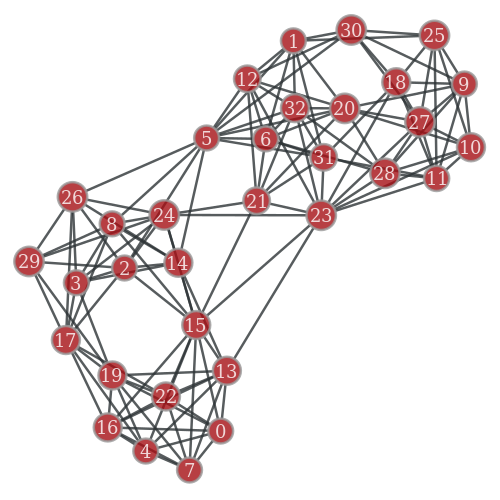
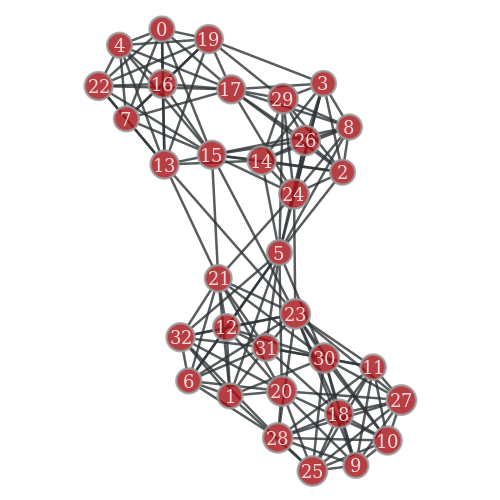
Added graphs for thickness 2 on mystery graph 1

diff --git a/__main__.py b/__main__.py
@@ -92,17 +92,33 @@ def mps_naive_best(graph, count, filter=None):
     return best_sg
 
 def thickness(graph):
-    t = 1
+    planar_graphs = []
     remaining = graph.copy()
     while not is_planar(remaining):
-        t += 1
-        mps = mps_naive_best(remaining, 1)
+        mps = mps_naive_best(remaining, 400)
+        edges = mps.get_edges()
+        add_graph = Graph(directed=False)
+        add_graph.add_edge_list(edges)
+        planar_graphs.append(add_graph)
         remaining.set_edge_filter(mps.get_edge_filter()[0], inverted=True)
         remaining.purge_edges()
         edges = remaining.get_edges()
         remaining = Graph(directed=False)
         remaining.add_edge_list(edges)
-    return t
+    planar_graphs.append(remaining)
+    return planar_graphs
+
+def save_graphs(graphs, filename_prefix):
+    i = 1
+    for g in graphs:
+        g.save(filename_prefix+str(i)+".graphml", "graphml")
+        i += 1
+
+def max_degree(graph):
+    d = []
+    for v in graph.vertices():
+        d.append(v.out_degree())
+    return max(d)
 
 ##################--------- DRIVER CODE  -------###################### 
 
